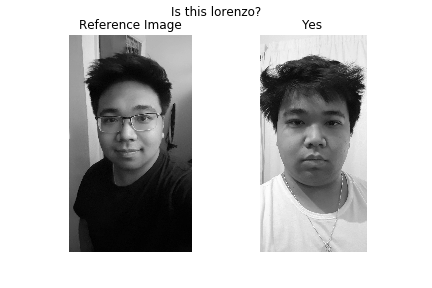
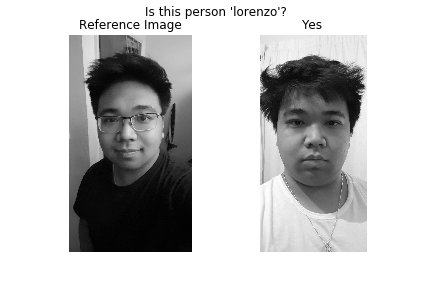
changing the figure title

Changed region(s): [[0.331, 0.0, 0.662, 0.0625]]

diff --git a/Siamese_Network.py b/Siamese_Network.py
@@ -24,11 +24,7 @@ import matplotlib.pyplot as plt
 
 #%% Helper functions
 
-def rgb2gray(imagePath):
-        
-   #fname = os.path.basename(image)  
-   #basename_noExtension = os.path.splitext(fname)[0] 
-   #extension = os.path.splitext(fname)[1]
+def rgb2gray(imagePath):     
    img = Image.open(imagePath).convert('L')
    img.save(imagePath)
    return imagePath
@@ -37,11 +33,9 @@ def euclidean_distance(vects):
     x, y = vects
     return K.sqrt(K.maximum(K.sum(K.square(x - y), axis=1, keepdims=True), K.epsilon()))
 
-
 def eucl_dist_output_shape(shapes):
     shape1, shape2 = shapes
     return (shape1[0], 1)
-
 
 def contrastive_loss(y_true, y_pred):
     '''Contrastive loss from Hadsell-et-al.'06
@@ -328,6 +322,7 @@ def main():
     database = dict()
     database["lorenzo"] = [fnet.img_to_encoding(KnownImages_dir_path + "/lorenzo.jpg")]
     database["karianne"] = [fnet.img_to_encoding(KnownImages_dir_path + "/karianne.jpg")]
+
     
     # Images to test
     knownImage = KnownImages_dir_path + "/lorenzo.jpg"
@@ -347,11 +342,11 @@ def main():
     print(dist)
     print(is_valid)
     
-    fnet.who_is_it(unknownImage, database)
+    #fnet.who_is_it(unknownImage, database)
     
     # Set up figure
     fig = plt.figure('Compare images')
-    fig.suptitle('Is this ' + knownImage_dictionaryName + '?')
+    fig.suptitle("Is this person '" + knownImage_dictionaryName + "'?")
     plt.axis("off")
     
     # show images
